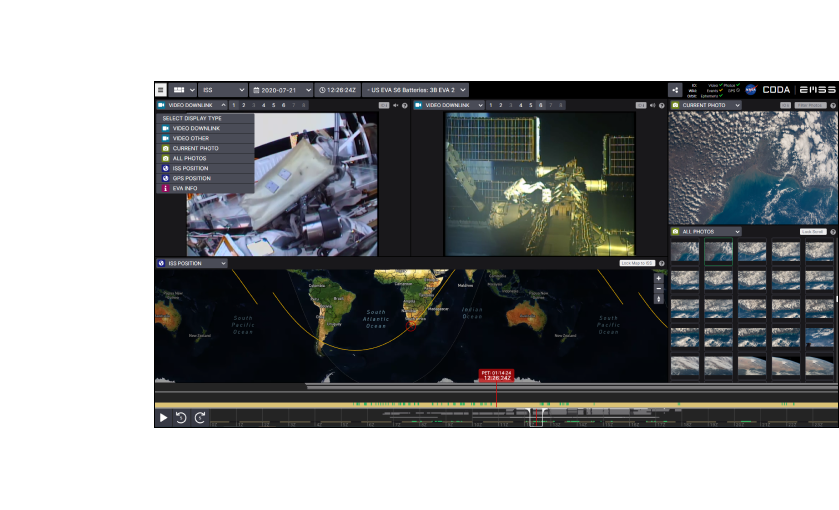
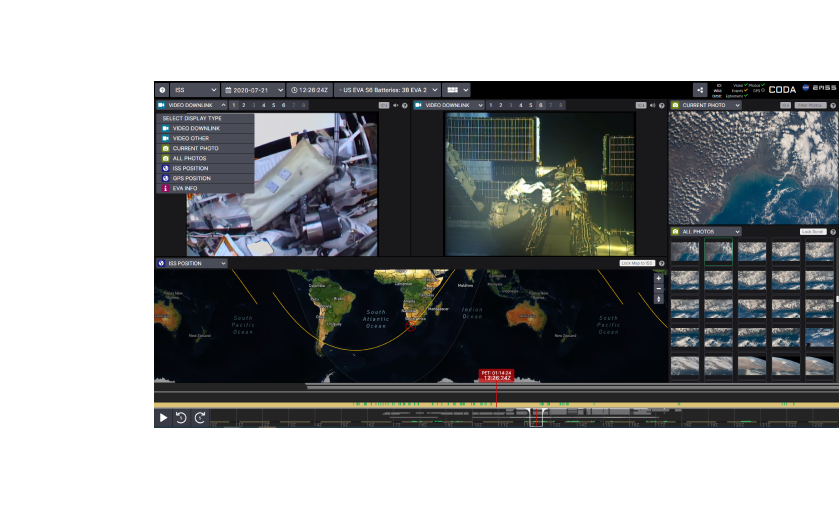
Replace help callout image. Made layout picker taller to avoid scroll.

diff --git a/components/framework/layout-picker.module.css b/components/framework/layout-picker.module.css
@@ -1,7 +1,7 @@
 .main {
   background-color: var(--slightly-lighter-grey);
   width: 263px;
-  height: 400px;
+  height: 440px;
   padding: 15px 18px;
   border-radius: var(--radius);
   overflow-y: scroll;
